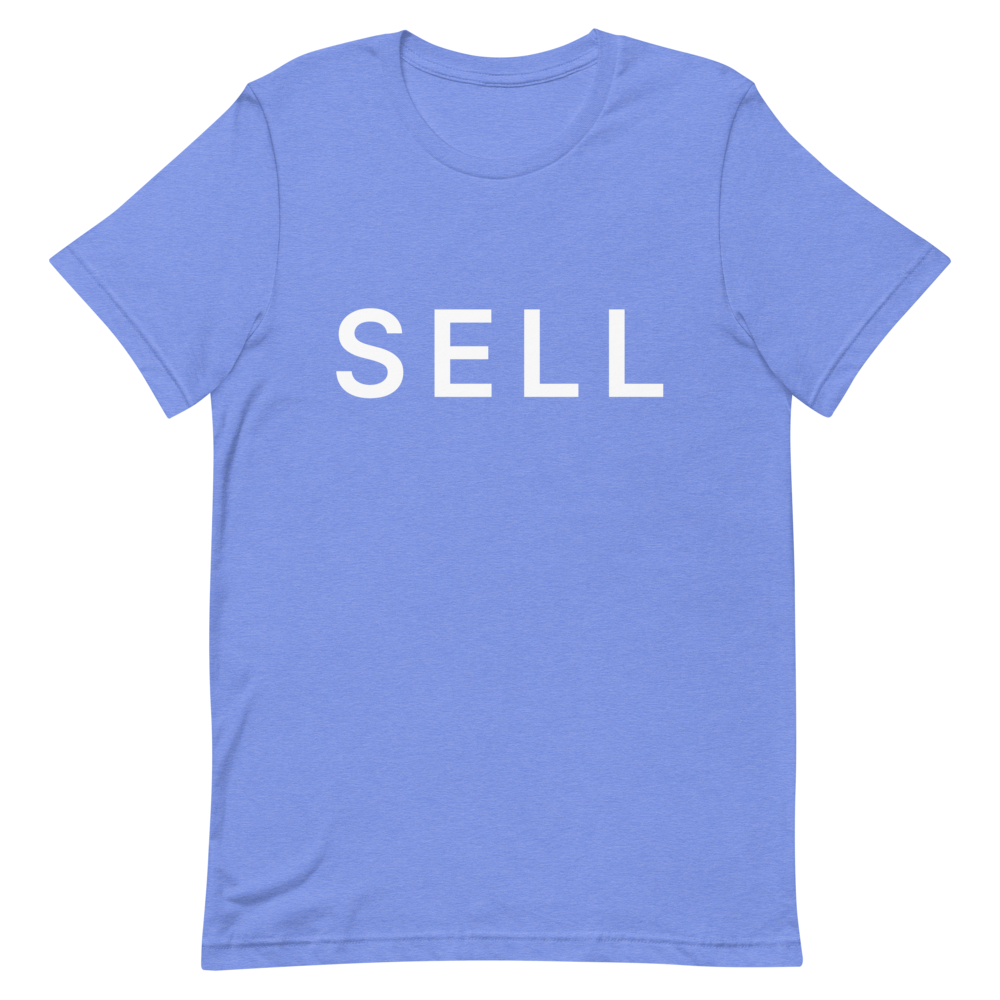
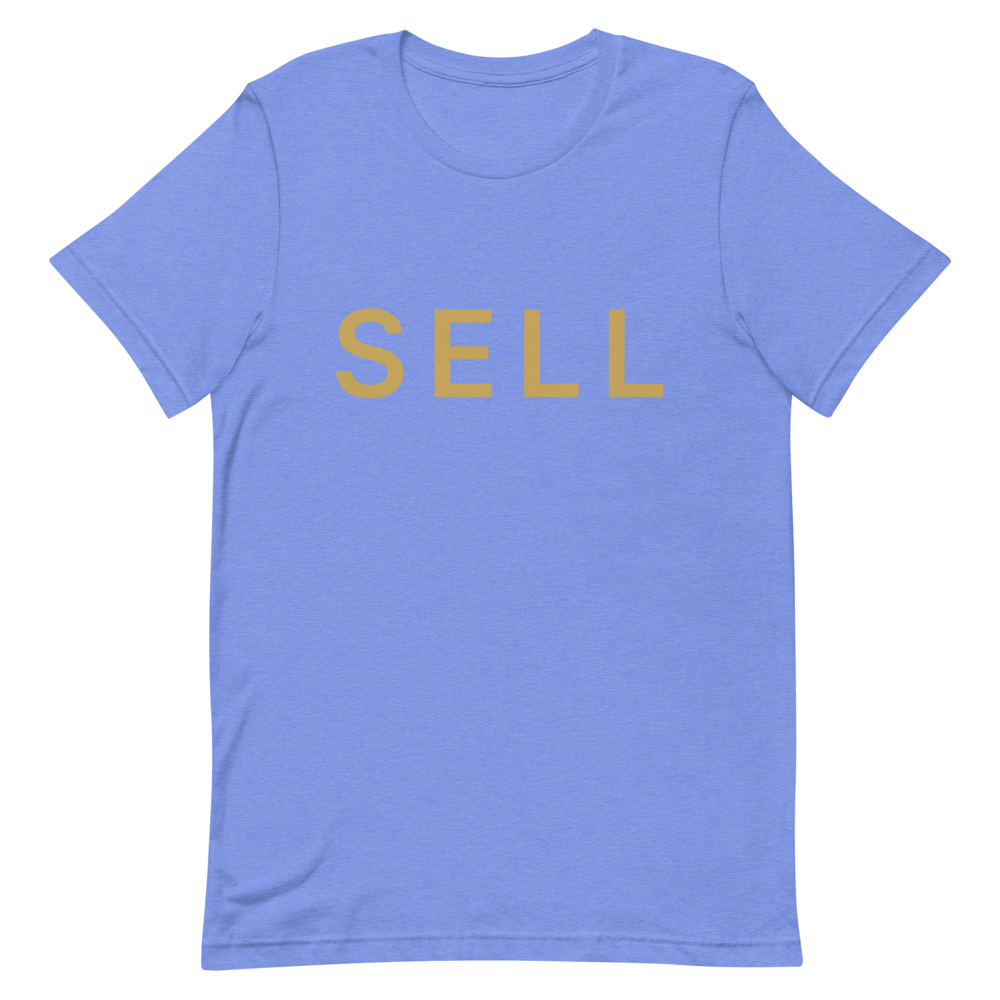
Redraw MLB shirt photos for the new ink colors
The photos for Baltimore, Boston, Yankees, Tampa Bay and Toronto still
showed white SELL after their ink changed (Oct 20 and Oct 29), while
Printful would print the new ink. The photo script also gave every team on
one shirt color the same render, whatever its ink; teams now share a
render only when the print file matches too. AGENTS.md says to regenerate
photos after any color or artwork change.

Claude-Session: https://claude.ai/code/session_01NSV1Lmki4hfNR1BEqiQSQB

Changed region(s): [[0.527, 0.31, 0.682, 0.403], [0.434, 0.31, 0.496, 0.403], [0.341, 0.31, 0.403, 0.403]]

diff --git a/lib/art.ts b/lib/art.ts
@@ -1,5 +1,5 @@
 // Bump when the shirt artwork or photos change: Printful caches print files by
 // URL and next/image caches optimized photos by URL, so a new number makes
 // both fetch fresh copies.
-export const ART_VERSION = 44;
+export const ART_VERSION = 45;
 

diff --git a/AGENTS.md b/AGENTS.md
@@ -7,3 +7,15 @@ This version has breaking changes — APIs, conventions, and file structure may 
 This block is written and re-added by `next dev` — verify at `node_modules/next/dist/server/lib/generate-agent-files.js`. Removing it from a diff only re-creates the uncommitted change; committing it with your work keeps the tree clean.
 
 <!-- END:nextjs-agent-rules -->
+
+## Shirt photos (read before changing any color or artwork)
+
+The shirt photos on the site are image files in `public/mockups/`. Changing a shirt color, an ink color or the artwork in code does not change them: until they're regenerated, the site shows the old shirt while Printful prints the new one. After any such change:
+
+1. Commit and push the code, and wait about a minute for the deploy: the photo script renders from the live print files.
+2. Regenerate the photos for the teams you changed (add `hoodie` if hoodies changed):
+   - PowerShell: `$env:BASE_URL="https://www.sellmyteam.com"; node --env-file=.env.local scripts/generate-mockups.mjs tee <team-slug> <team-slug>`
+   - Mac/Linux: `BASE_URL=https://www.sellmyteam.com node --env-file=.env.local scripts/generate-mockups.mjs tee <team-slug> <team-slug>`
+3. Open the new PNGs and check the lettering color, bump `ART_VERSION` in `lib/art.ts`, commit `public/mockups/`, and push.
+
+City tee photos are made from the plain tee photos with `scripts/city-mockups.py` (see README, Photos).
